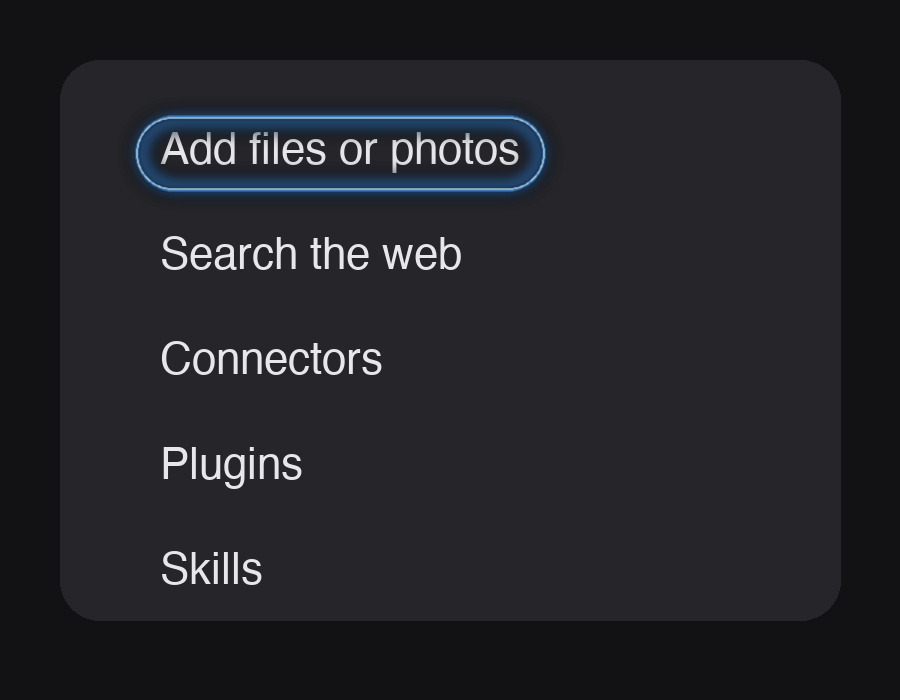
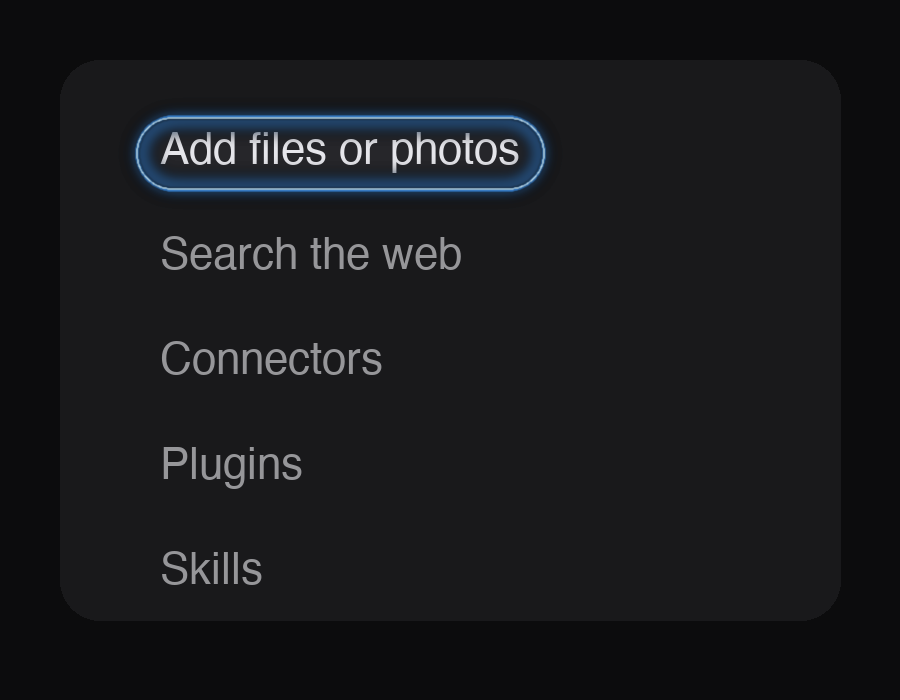
Dim the area outside the highlight for stronger focus
Darken everything outside the padded highlight boxes (default 0.35,
soft-edged, tunable or off via --dim 0) so the circled text pops.
Regenerate demo images with the new effect.

diff --git a/circle_text.py b/circle_text.py
@@ -177,18 +177,39 @@ def hex_to_rgb(color):
     return tuple(int(color[i : i + 2], 16) for i in (0, 2, 4))
 
 
-def draw_glow_highlight(img, box, color=(64, 156, 255)):
-    """在 box 周圍畫出發光的圓角圈選框（iOS glow highlight 風格）。"""
-    W, H = img.size
+def pad_box(img_size, box):
+    """把文字框往外擴一點呼吸空間，回傳 (框, 圓角半徑)。"""
+    W, H = img_size
     x0, y0, x1, y1 = box
     box_h = y1 - y0
-
-    # 框往外留一點呼吸空間
     pad_x = max(10, box_h * 0.55)
     pad_y = max(8, box_h * 0.40)
     x0, y0 = max(2, x0 - pad_x), max(2, y0 - pad_y)
     x1, y1 = min(W - 2, x1 + pad_x), min(H - 2, y1 + pad_y)
     radius = min((y1 - y0) / 2, (x1 - x0) / 2)
+    return (x0, y0, x1, y1), radius
+
+
+def dim_background(img, padded_boxes, strength=0.35):
+    """壓暗圈選框以外的區域，讓焦點落在圈選的文字上。"""
+    W, H = img.size
+    img = img.convert("RGBA")
+    overlay = Image.new("RGBA", (W, H), (0, 0, 0, round(255 * strength)))
+    od = ImageDraw.Draw(overlay)
+    for box, radius in padded_boxes:
+        od.rounded_rectangle(box, radius=radius, fill=(0, 0, 0, 0))
+    # 讓明暗交界柔和一點
+    overlay = overlay.filter(
+        ImageFilter.GaussianBlur(max(2, round(min(W, H) * 0.004)))
+    )
+    img.alpha_composite(overlay)
+    return img
+
+
+def draw_glow_highlight(img, padded_box, radius, color=(64, 156, 255)):
+    """在框周圍畫出發光的圓角圈選框（iOS glow highlight 風格）。"""
+    W, H = img.size
+    x0, y0, x1, y1 = padded_box
 
     # 線寬與光暈大小依圖片尺寸縮放
     lw = max(3, round(min(W, H) * 0.006))
@@ -247,14 +268,24 @@ def main():
     parser.add_argument(
         "--all", action="store_true", help="圈選文字出現的所有位置（預設只圈第一個）"
     )
+    parser.add_argument(
+        "--dim",
+        type=float,
+        default=0.35,
+        metavar="0~1",
+        help="背景壓暗程度，0 為不壓暗（預設 0.35）",
+    )
     args = parser.parse_args()
 
     img = Image.open(args.image)
     boxes = find_text_boxes(args.image, args.text, img.size, match_all=args.all)
 
     color = hex_to_rgb(args.color)
-    for box in boxes:
-        img = draw_glow_highlight(img, box, color)
+    padded = [pad_box(img.size, box) for box in boxes]
+    if args.dim > 0:
+        img = dim_background(img, padded, min(args.dim, 0.9))
+    for box, radius in padded:
+        img = draw_glow_highlight(img, box, radius, color)
 
     output = args.output
     if not output:

diff --git a/README.md b/README.md
@@ -38,6 +38,7 @@ python3 circle_text.py image.png "text to highlight"
 | `-o output.png` | Output path (default: `<original name>_marked.png`) |
 | `--color "#FF3B30"` | Highlight color in hex (default: iOS blue `#409CFF`) |
 | `--all` | Highlight every occurrence of the text (default: first match only) |
+| `--dim 0.35` | How much to darken the rest of the image, 0–1; `0` disables (default: `0.35`) |
 
 ### Examples
 
@@ -56,6 +57,7 @@ python3 circle_text.py doc.png "keyword" --all
 
 - **Precise substring locating**: gets an accurate bounding box even when the target is only part of a line
 - **Fuzzy matching**: ignores case, whitespace, and full-width/half-width differences
+- **Focus dimming**: everything outside the highlight is slightly darkened (soft edges) so the marked text pops; tune or disable with `--dim`
 - **Auto scaling**: line width, glow size, and padding adapt to the image size — works for large screenshots and small images alike
 - **Helpful errors**: when the text isn't found, all text detected in the image is listed so you can adjust your keyword
 
@@ -108,6 +110,7 @@ python3 circle_text.py 圖片.png "要標記的文字"
 | `-o 輸出.png` | 指定輸出路徑（預設為 `原檔名_marked.png`） |
 | `--color "#FF3B30"` | 圈選顏色，hex 格式（預設 iOS 藍 `#409CFF`） |
 | `--all` | 圈選文字出現的所有位置（預設只圈第一個） |
+| `--dim 0.35` | 背景壓暗程度 0–1，`0` 為不壓暗（預設 `0.35`） |
 
 ### 範例
 
@@ -126,6 +129,7 @@ python3 circle_text.py doc.png "重點" --all
 
 - **精準子字串定位**：即使目標文字只是某一行的一部分，也會取得精確的邊界框
 - **模糊比對**：自動忽略大小寫、空白、全形半形差異
+- **聚焦壓暗**：圈選框以外的區域會稍微變暗（邊緣柔和過渡），讓標記的文字更突出，可用 `--dim` 調整或關閉
 - **自動縮放**：線寬、光暈大小、留白依圖片尺寸調整，大截圖和小圖都適用
 - **友善錯誤提示**：找不到文字時，會列出圖片中實際偵測到的所有文字，方便調整關鍵字
 
